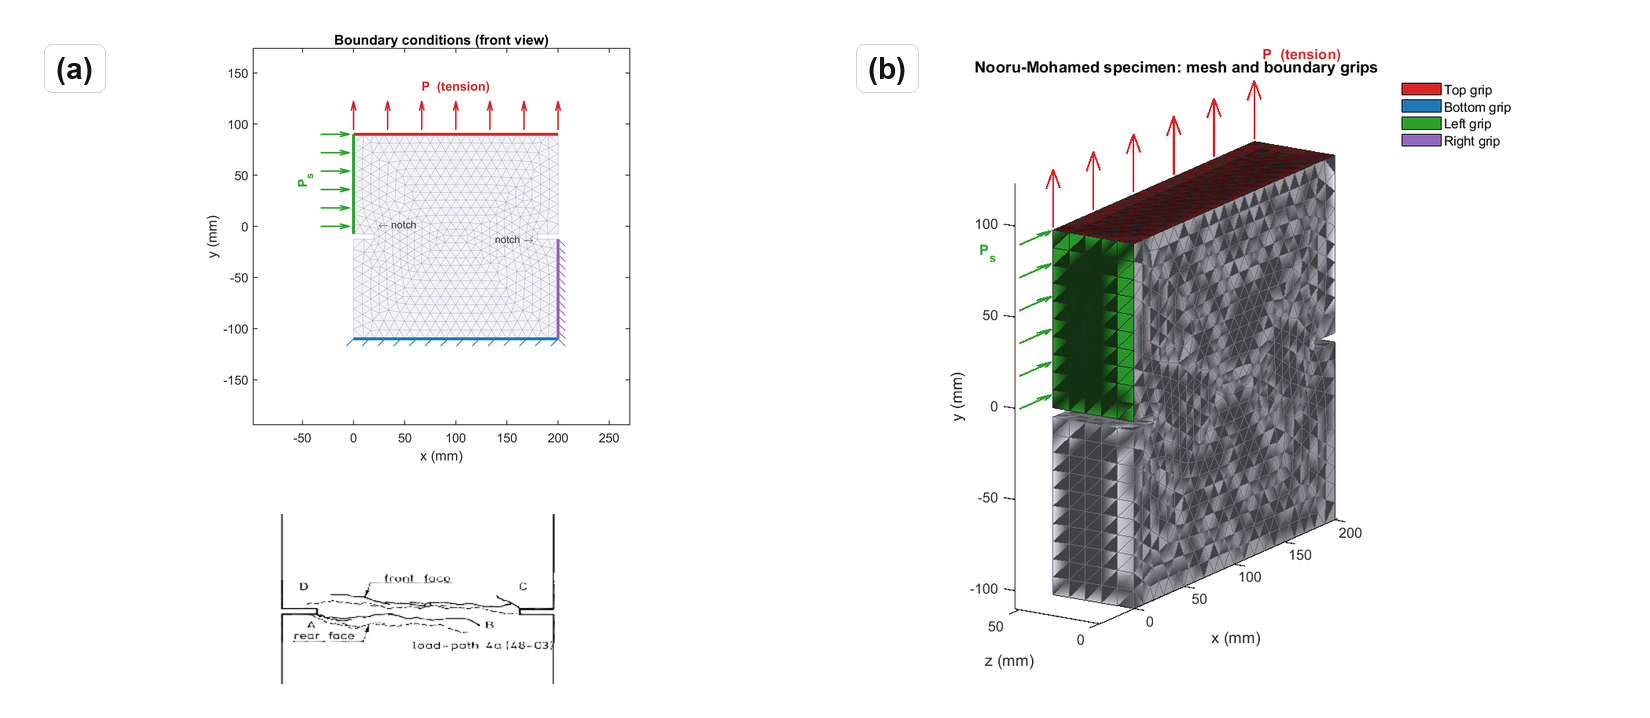
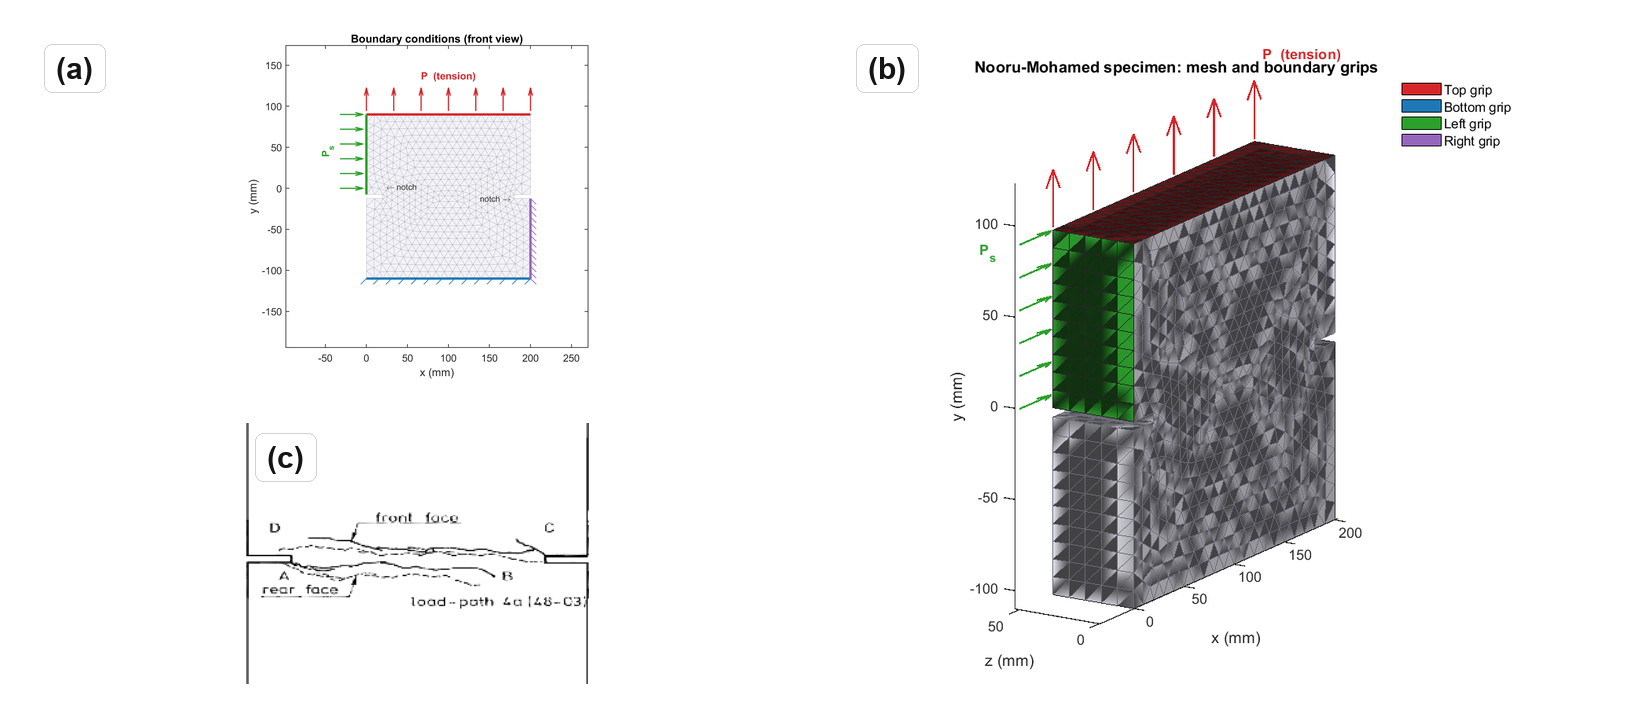
Address final JOSS reviewer polish

diff --git a/paper/build_composite_figures.py b/paper/build_composite_figures.py
@@ -106,6 +106,30 @@ def row_equal_height(
         x += im.width + gap
     canvas.save(IMG / output, optimize=True)
 
+def b1_results_layout(output: str) -> None:
+    width = 1850
+    margin = 30
+    gap = 28
+    left_w = 700
+    right_w = width - 2 * margin - gap - left_w
+    height = 500
+
+    load_panel = fit(load("load_cmod_comparison.png"), left_w, height - 2 * margin)
+    timing_panel = fit(load("time_comparison_bar.png"), right_w, height - 2 * margin)
+
+    canvas = Image.new("RGB", (width, height), WHITE)
+    x = margin
+    y = (height - load_panel.height) // 2
+    canvas.paste(load_panel, (x, y))
+    label_panel(canvas, (x + 12, y + 12), "(a)")
+
+    x = margin + left_w + gap
+    y = (height - timing_panel.height) // 2
+    canvas.paste(timing_panel, (x, y))
+    label_panel(canvas, (x + 12, y + 12), "(b)")
+    label_panel(canvas, (x + int(timing_panel.width * 0.57), y + 12), "(c)")
+    canvas.save(IMG / output, optimize=True)
+
 def grid(
     panels: list[tuple[str, str]],
     output: str,
@@ -138,10 +162,10 @@ def nooru_mesh_layout(output: str) -> None:
     panel_w = (width - 2 * margin - gap) // 2
     panel_h = 650
 
-    bc = fit(load("nooru_BC_2D.png"), panel_w, 430)
+    bc = fit(load("nooru_BC_2D.png"), panel_w, 345)
     mesh = fit(load("nooru_mesh_3D.png"), panel_w, panel_h)
 
-    crack = fit(crop_fraction(load("Exp_noor.png"), (0.0, 0.12, 1.0, 0.76)), panel_w, 170)
+    crack = fit(crop_fraction(load("Exp_noor.png"), (0.0, 0.08, 1.0, 0.86)), panel_w, 265)
 
     height = 2 * margin + panel_h
     canvas = Image.new("RGB", (width, height), WHITE)
@@ -149,8 +173,11 @@ def nooru_mesh_layout(output: str) -> None:
     x = margin
     y = margin
     canvas.paste(bc, (x + (panel_w - bc.width) // 2, y))
-    canvas.paste(crack, (x + (panel_w - crack.width) // 2, y + panel_h - crack.height))
+    crack_x = x + (panel_w - crack.width) // 2
+    crack_y = y + panel_h - crack.height
+    canvas.paste(crack, (crack_x, crack_y))
     label_panel(canvas, (x + 10, y + 10), "(a)")
+    label_panel(canvas, (crack_x + 10, crack_y + 10), "(c)")
 
     x = margin + panel_w + gap
     canvas.paste(mesh, (x + (panel_w - mesh.width) // 2, y + (panel_h - mesh.height) // 2))
@@ -197,16 +224,7 @@ def main() -> None:
         gap=22,
         margin=28,
     )
-    row_equal_height(
-        [
-            ("load_cmod_comparison.png", "(a)"),
-            ("time_comparison_bar.png", "(b)"),
-        ],
-        "fig_b1_results.png",
-        height=430,
-        gap=28,
-        margin=30,
-    )
+    b1_results_layout("fig_b1_results.png")
     three_pb_layout("fig_b1_compact.png")
     nooru_mesh_layout("fig_b2_mesh.png")
     grid(

diff --git a/paper/paper.md b/paper/paper.md
@@ -38,7 +38,7 @@ header-includes:
 
 # Summary
 
-`FRACMATH` is an open-source MATLAB framework for finite-element simulation of crack-band-regularized continuum damage mechanics (CDM) in quasi-brittle materials. The code uses a scalar isotropic damage variable, the modified von Mises equivalent strain [@deVree], exponential softening, and Oliver's direction-dependent projected crack-band length [@bazant_oh; @oliver1989]. It keeps the solver, plotting, and constitutive update inside MATLAB, with no MATLAB executable (MEX) files, compiled extensions, or separate build system.
+`FRACMATH` is an open-source MATLAB framework for finite-element simulation of crack-band-regularized continuum damage mechanics (CDM) in quasi-brittle materials. The name combines `FRAC`, for fracture, and `MATH`, for the MATLAB-based matrix mathematics used throughout the implementation; the final `H` is part of `MATH` rather than a separate acronym. The code uses a scalar isotropic damage variable, the modified von Mises equivalent strain [@deVree], exponential softening, and Oliver's direction-dependent projected crack-band length [@bazant_oh; @oliver1989]. It keeps the solver, plotting, and constitutive update inside MATLAB, with no MATLAB executable (MEX) files, compiled extensions, or separate build system.
 
 The package includes a two-dimensional (2D) notched three-point bending (3PB) benchmark checked against Abaqus/Standard through an Oliver-matched user material subroutine (UMAT), plus two three-dimensional (3D) MATLAB demonstrations: the Nooru-Mohamed mixed-mode test and Brokenshire's notched beam torsion test. The repository stores source code, input decks, results, plotting scripts, and a theory manual at <https://github.com/jaymavani7/JOSS_FRACMATH> under the MIT license.
 
@@ -71,13 +71,15 @@ where $\omega\in[0,1]$ is the damage variable. A history variable stores the max
 
 The same idea is used for tetrahedra in 3D. In the Abaqus comparison, a preprocessing script writes the T3 shape-function gradients to `oliver_t3_gradN.dat`; the UMAT then recomputes Equation \ref{eq:oliver-t3} from the current principal strain direction. This avoids using Abaqus's built-in characteristic element length variable, `CELENT`, as a fixed crack-band length and keeps the regularization consistent with Oliver's characteristic-length construction [@oliver1989].
 
+In Equation \ref{eq:oliver-t3}, $h(\mathbf{n})$ is the direction-dependent projected crack-band length, $\mathbf{n}$ is the unit direction of the current maximum principal strain, $N_a$ is the T3 shape function associated with node $a$, $\nabla N_a$ is its spatial gradient in the element, and the dot denotes the Euclidean inner product.
+
 The quasistatic solver uses displacement control with a fixed-secant modified Newton iteration in each increment. The secant stiffness is assembled and factored once, displacement residuals are iterated with that fixed matrix, and damage is updated after the displacement solve. Element strains, equivalent strain, history variables, damage, and crack-band lengths are updated with vectorized MATLAB operations, including `pagemtimes`; sparse linear systems use MATLAB's backslash interface, which dispatches to UMFPACK [@umfpack]. This design favors readable vectorized kernels, direct plotting, and reviewer-side inspection over a larger compiled framework.
 
 For the Abaqus comparison, `FRACMATH` includes the input deck, the Fortran UMAT, the Oliver-gradient table generator, and extraction scripts for load-CMOD curves, where CMOD is crack-mouth-opening displacement, and damage fields. The MATLAB and Abaqus paths therefore share the same mesh, boundary conditions, fracture energy, tensile strength, and crack-band bandwidth formula. Differences in the plotted response are primarily solver and implementation differences, not changes in the continuum model.
 
 # Benchmarks
 
-The main quantitative benchmark is the Gregoire notched 3PB beam [@gregoire2013], modeled with the same refined mesh, material constants, loading, scalar damage law, and Oliver crack-band formula in MATLAB and Abaqus. The 2D mesh uses Abaqus CPS3 elements, where CPS3 denotes a three-node plane-stress triangular element. MATLAB predicts a peak load of 3.63982 kN at CMOD 0.022811 mm; Abaqus predicts 3.60913 kN at CMOD 0.022485 mm. Both simulations localize damage upward from the notch, which is the expected opening-mode (mode-I) crack path for this geometry [@gregoire2013]. The Abaqus UMAT independently evaluates the same damage law and Oliver bandwidth inside a commercial finite-element environment [@abaqus; @oliver1989].
+The main quantitative benchmark is the Grégoire notched 3PB beam [@gregoire2013], modeled with the same refined mesh, material constants, loading, scalar damage law, and Oliver crack-band formula in MATLAB and Abaqus. The 2D mesh uses Abaqus CPS3 elements, where CPS3 denotes a three-node plane-stress triangular element. MATLAB predicts a peak load of 3.63982 kN at CMOD 0.022811 mm; Abaqus predicts 3.60913 kN at CMOD 0.022485 mm. Both simulations localize damage upward from the notch, which is the expected opening-mode (mode-I) crack path for this geometry [@gregoire2013]. The Abaqus UMAT independently evaluates the same damage law and Oliver bandwidth inside a commercial finite-element environment [@abaqus; @oliver1989].
 
 The stored timing logs for this benchmark run report MATLAB R2024a using one thread and Abaqus/Standard 2023 using four threads. The MATLAB solver wall-clock time was 547.58 s, while the Abaqus submit-to-completion time was 1996.25 s. MATLAB time was dominated by stiffness assembly, not by the sparse solve. The timing should not be read as a universal speed claim, because solver settings, output requests, hardware, and Abaqus licensing can all change wall-clock time.
 
@@ -92,11 +94,11 @@ Table: 2D 3PB comparison using the same mesh, material law, and Oliver T3 crack-
 
 ![3PB mesh and damage fields: (a) CPS3 mesh and support/load layout; (b) Abaqus UMAT final fully damaged elements; (c) MATLAB damage field at peak load; (d) MATLAB post-peak damage field. \label{fig:b1-compact}](images/fig_b1_compact.png){ width=100% }
 
-![3PB response and timing: (a) MATLAB and Abaqus load-CMOD response; (b) wall-clock comparison and MATLAB timing breakdown. \label{fig:b1-results}](images/fig_b1_results.png){ width=98% }
+![3PB response and timing: (a) MATLAB and Abaqus load-CMOD response; (b) wall-clock comparison; (c) MATLAB timing breakdown. \label{fig:b1-results}](images/fig_b1_results.png){ width=98% }
 
 The Nooru-Mohamed benchmark checks mixed-mode 3D cracking in a double-edge-notched concrete panel under combined tension and shear [@nooru1992]. The same scalar CDM routine uses four-node linear tetrahedral (TET4) elements and Oliver crack-band scaling [@oliver1989]. The simulated damage bands initiate at the two notch tips and coalesce across the ligament, matching the qualitative experimental crack-path pattern.
 
-![Nooru-Mohamed mixed-mode benchmark: (a) boundary conditions with experimental crack-path inset; (b) 3D mesh. \label{fig:b2-mesh}](images/fig_b2_mesh.png){ width=100% }
+![Nooru-Mohamed mixed-mode benchmark: (a) boundary conditions; (b) 3D mesh; (c) experimental crack path from Nooru-Mohamed [@nooru1992]. \label{fig:b2-mesh}](images/fig_b2_mesh.png){ width=100% }
 
 This example is included because mixed-mode response is a common failure point for simplified fracture implementations. In the simulation, the crack-band direction changes as the principal strain field evolves, so the projected bandwidth is recomputed rather than assigned from a constant element size. The resulting localization band does not remain a straight mode-I notch extension; it bends across the ligament in the same qualitative direction as the reported experimental crack path.
 
@@ -120,7 +122,7 @@ The repository contains MATLAB source code, Abaqus UMAT files, benchmark input d
 
 # Limitations
 
-`FRACMATH` is quasistatic and does not include inertia, rate effects, contact, plasticity, or unilateral crack closure. Damage is isotropic and scalar, so anisotropic stiffness recovery and cyclic loading are outside the current scope. Crack-band scaling controls mesh-objective energy dissipation but does not introduce a physical material length scale.
+`FRACMATH` is quasistatic and does not include inertia, rate effects, contact, plasticity, or unilateral crack closure. Damage is isotropic and scalar, so anisotropic stiffness recovery and cyclic loading are outside the current scope. Crack-band scaling controls mesh-objective energy dissipation but does not introduce a physical material length scale. These additions are compatible with the current framework, because the code already separates element-level history variables, constitutive updates, sparse assembly, and plotting.
 
 # AI usage disclosure
 
@@ -128,6 +130,6 @@ Generative AI tools were used to assist with manuscript wording and formatting. 
 
 # Acknowledgements
 
-The authors acknowledge support from the National Aeronautics and Space Administration, the New Mexico Space Grant Consortium under grant 80NSSC22M0044, and the New Mexico Department of Finance and Administration under grant ZI5044-MG25-109. The opinions and conclusions are those of the authors and do not necessarily reflect the views of the sponsors.
+The authors acknowledge support from the National Aeronautics and Space Administration (NASA) and the New Mexico Space Grant Consortium under grant 80NSSC22M0044, and from the New Mexico Department of Finance and Administration under grant ZI5044-MG25-109. The opinions and conclusions are those of the authors and do not necessarily reflect the views of the sponsors.
 
 # References
